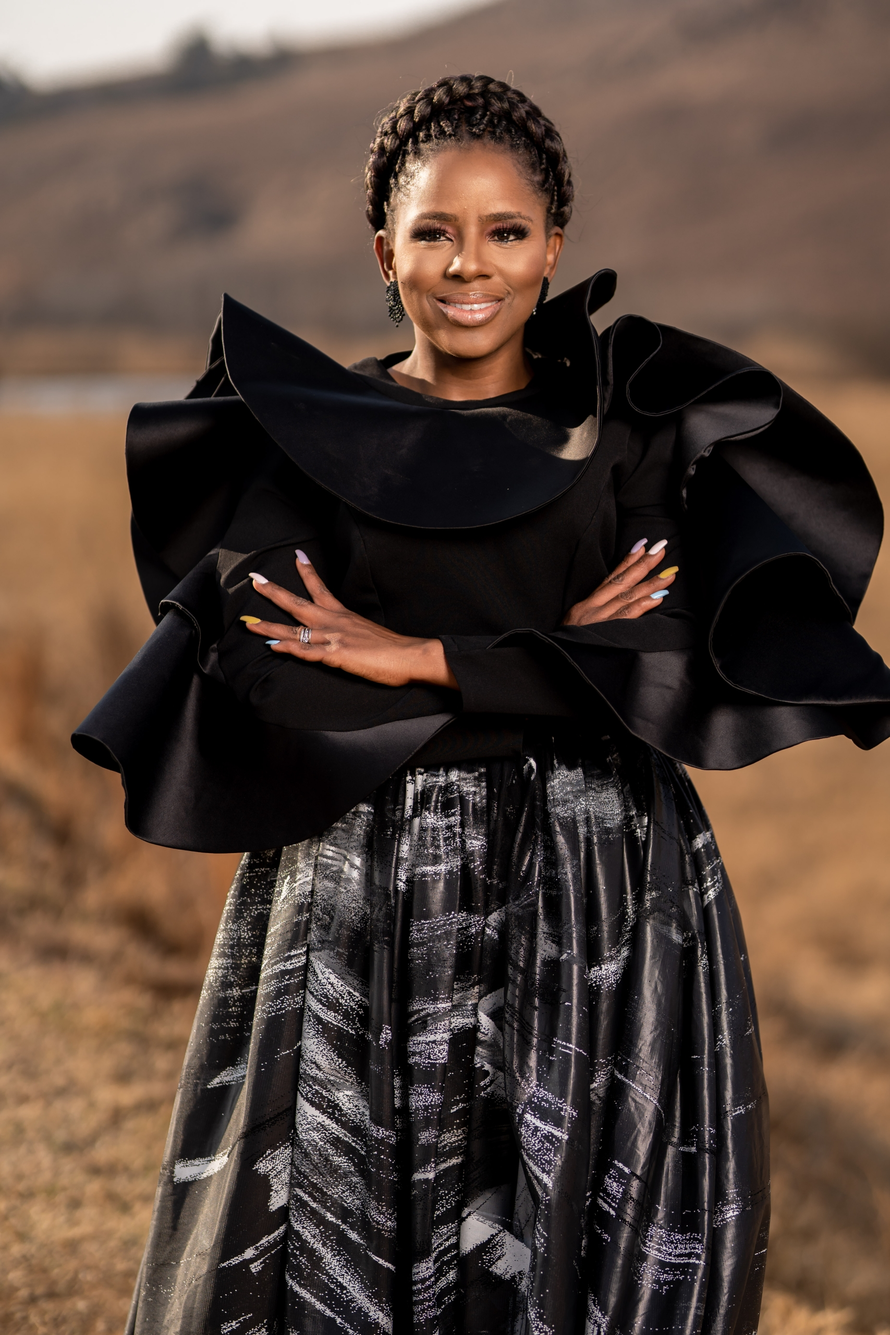
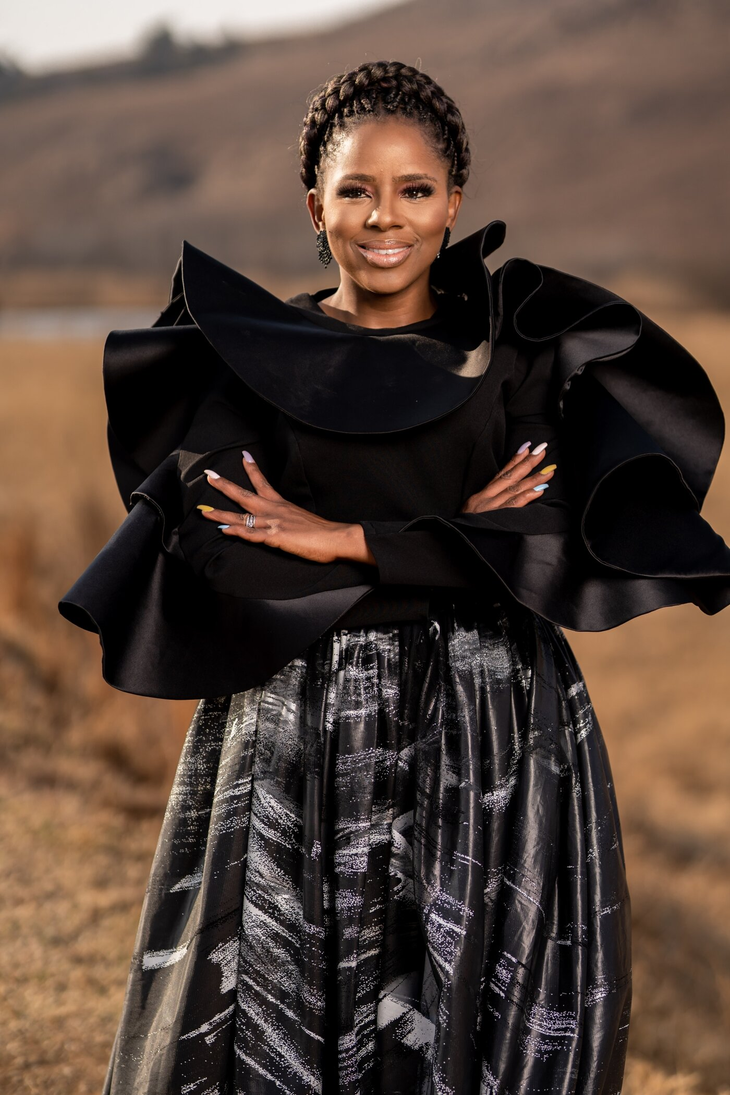
Production-readiness pass: SEO, 404, image cleanup, remaining bugs
- Add metadataBase + Open Graph/Twitter cards to root and About page
  metadata (site URL configurable via NEXT_PUBLIC_SITE_URL, defaults
  to localhost so builds never fail on a missing env var).
- Add robots.ts and sitemap.ts (auto-generated /robots.txt and
  /sitemap.xml covering both routes).
- Add a branded not-found.tsx instead of the default Next 404.
- Remove 7 unreferenced images from public/images (~15MB) and
  recompress two oversized-but-used ones (nontoko-profile.jpg,
  nontokozo-duo-full png->jpg), cutting public/images from ~19MB to
  ~4MB.
- Fix a leftover -translate-y-1/2 on the EmotionBanner caption that
  no longer made sense after the container's border-radius changed
  from a full pill to a fixed rounded rect — was pushing the text out
  of position.
- Comment out the now-unused LatestTrends import in page.tsx to clear
  the last lint warning.
- Verified: tsc, eslint, and `next build` all clean; production
  server smoke-tested with zero broken resource requests on / and
  /about, and a correct 404 status on unknown routes.

Claude-Session: https://claude.ai/code/session_01U1nu6g1uWAn46YMjn6GEQd

diff --git a/src/app/not-found.tsx b/src/app/not-found.tsx
@@ -1,0 +1,29 @@
+import Link from "next/link";
+import Header from "@/components/Header";
+import Footer from "@/components/Footer";
+
+export default function NotFound() {
+  return (
+    <div className="flex min-h-screen flex-col">
+      <Header />
+      <main className="flex flex-1 items-center justify-center px-6 py-32 text-center">
+        <div>
+          <p className="font-display text-7xl text-ink sm:text-9xl">404</p>
+          <h1 className="mt-4 font-serif text-3xl text-ink sm:text-4xl">
+            This page doesn&apos;t exist.
+          </h1>
+          <p className="mt-3 text-sm text-muted sm:text-base">
+            The page you&apos;re looking for may have moved or never existed.
+          </p>
+          <Link
+            href="/"
+            className="mt-8 inline-flex items-center gap-2 rounded-full bg-ink px-6 py-3 text-sm font-medium tracking-wide text-cream transition-transform hover:scale-105 active:scale-95"
+          >
+            BACK TO HOME
+          </Link>
+        </div>
+      </main>
+      <Footer />
+    </div>
+  );
+}

diff --git a/src/app/layout.tsx b/src/app/layout.tsx
@@ -46,10 +46,30 @@ const plusJakarta = Plus_Jakarta_Sans({
   weight: ["400", "500", "600"],
 });
 
+const siteUrl = process.env.NEXT_PUBLIC_SITE_URL || "http://localhost:3000";
+const title = "Calvin Chou — An Architect";
+const description =
+  "Calvin Chou's portfolio — building the future of the web from blueprint to code to market.";
+
 export const metadata: Metadata = {
-  title: "Calvin Chou — An Architect",
-  description:
-    "Calvin Chou's portfolio — building the future of the web from blueprint to code to market.",
+  metadataBase: new URL(siteUrl),
+  title,
+  description,
+  openGraph: {
+    title,
+    description,
+    url: "/",
+    siteName: "Calvin Chou",
+    type: "website",
+    locale: "en_ZA",
+    images: [{ url: "/images/calvin-about-portrait.jpg" }],
+  },
+  twitter: {
+    card: "summary_large_image",
+    title,
+    description,
+    images: ["/images/calvin-about-portrait.jpg"],
+  },
 };
 
 export default function RootLayout({ children }: LayoutProps<"/">) {

diff --git a/src/app/about/page.tsx b/src/app/about/page.tsx
@@ -5,10 +5,27 @@ import SkillsGrid from "@/components/SkillsGrid";
 import Experience from "@/components/Experience";
 import Footer from "@/components/Footer";
 
+const title = "About — Calvin Chou";
+const description =
+  "Full-stack developer and founder of Codestudio — 9+ years shipping web and mobile products end-to-end.";
+
 export const metadata: Metadata = {
-  title: "About — Calvin Chou",
-  description:
-    "Full-stack developer and founder of Codestudio — 9+ years shipping web and mobile products end-to-end.",
+  title,
+  description,
+  openGraph: {
+    title,
+    description,
+    url: "/about",
+    siteName: "Calvin Chou",
+    type: "profile",
+    images: [{ url: "/images/calvin-about-portrait.jpg" }],
+  },
+  twitter: {
+    card: "summary_large_image",
+    title,
+    description,
+    images: ["/images/calvin-about-portrait.jpg"],
+  },
 };
 
 export default function AboutPage() {

diff --git a/src/components/EmotionBanner.tsx b/src/components/EmotionBanner.tsx
@@ -68,7 +68,7 @@ export default function EmotionBanner() {
         <div className="pointer-events-none absolute inset-0 bg-gradient-to-t from-black/45 via-black/0 to-transparent" />
         <div className="pointer-events-none absolute inset-0 bg-gradient-to-r from-black/40 via-black/0 to-transparent" />
 
-        <div className="absolute bottom-8 left-8 -translate-y-1/2 sm:left-14">
+        <div className="absolute bottom-8 left-8 sm:bottom-12 sm:left-14">
           <p className="font-serif text-2xl text-white sm:text-4xl">
             Commission Mapper,
           </p>

diff --git a/src/app/sitemap.ts b/src/app/sitemap.ts
@@ -1,0 +1,20 @@
+import type { MetadataRoute } from "next";
+
+const siteUrl = process.env.NEXT_PUBLIC_SITE_URL || "http://localhost:3000";
+
+export default function sitemap(): MetadataRoute.Sitemap {
+  return [
+    {
+      url: siteUrl,
+      lastModified: new Date(),
+      changeFrequency: "monthly",
+      priority: 1,
+    },
+    {
+      url: `${siteUrl}/about`,
+      lastModified: new Date(),
+      changeFrequency: "monthly",
+      priority: 0.8,
+    },
+  ];
+}

diff --git a/src/app/page.tsx b/src/app/page.tsx
@@ -7,7 +7,7 @@ import Collections from "@/components/Collections";
 import Offerings from "@/components/Offerings";
 // import TrendsBlog from "@/components/TrendsBlog";
 import ProjectShowcase from "@/components/ProjectShowcase";
-import LatestTrends from "@/components/LatestTrends";
+// import LatestTrends from "@/components/LatestTrends";
 import FAQ from "@/components/FAQ";
 import Testimonials from "@/components/Testimonials";
 import Contact from "@/components/Contact";

diff --git a/src/components/ProjectShowcase.tsx b/src/components/ProjectShowcase.tsx
@@ -99,7 +99,7 @@ export default function ProjectShowcase() {
             className="aspect-[390/312]"
           />
           <PhotoTile
-            src="/images/nontokozo-duo-full.png"
+            src="/images/nontokozo-duo-full.jpg"
             alt="Brand identity project photography"
             label="Brand Identity & Website"
             className="aspect-[240/200]"

diff --git a/src/app/robots.ts b/src/app/robots.ts
@@ -1,0 +1,13 @@
+import type { MetadataRoute } from "next";
+
+const siteUrl = process.env.NEXT_PUBLIC_SITE_URL || "http://localhost:3000";
+
+export default function robots(): MetadataRoute.Robots {
+  return {
+    rules: {
+      userAgent: "*",
+      allow: "/",
+    },
+    sitemap: `${siteUrl}/sitemap.xml`,
+  };
+}
